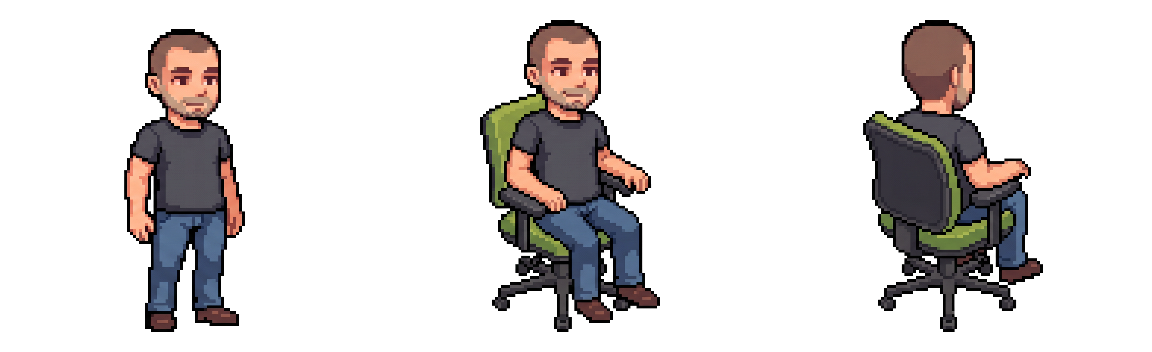
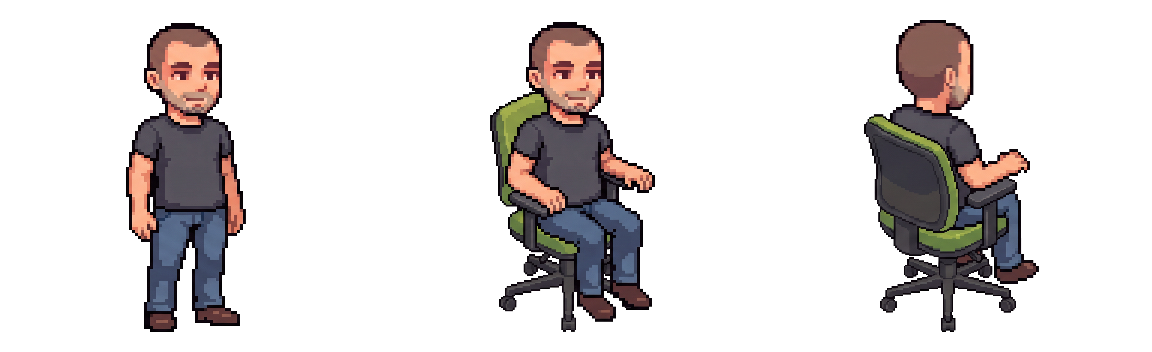
Distribute office routines, rotate BIRD staff and add lecture and exercise poses

diff --git a/public/assets/office-life.js b/public/assets/office-life.js
@@ -3,8 +3,10 @@
 const STEP=20,dist=(a,b)=>Math.hypot(a[0]-b[0],a[1]-b[1]);
 const DENSITY_RADIUS=175,AREA_LIMIT=3,MAX_WALKERS=5;
 function fitsArea(point,others){if(others.filter(p=>dist(p,point)<DENSITY_RADIUS).length>=AREA_LIMIT)return false;return !others.some(center=>dist(point,center)<DENSITY_RADIUS&&others.filter(p=>dist(p,center)<DENSITY_RADIUS).length>=AREA_LIMIT);}
-const activities=['work','walk','chat','coffee','water','food','away'];
+const activities=['work','walk','chat','coffee','water','food','away','lecture','exercise'];
 const phrases={
+ lecture:{en:['Taking notes','A little study time','Reviewing the lecture','One more idea','Working on a plan','Reading my notes','Thinking it through'],hr:['Pišem bilješke','Malo učenja','Ponavljam predavanje','Još jedna ideja','Radim na planu','Čitam bilješke','Razmišljam'],ru:['Делаю заметки','Немного учёбы','Повторю лекцию','Ещё одна идея','Работаю над планом','Читаю конспект','Обдумываю']},
+ exercise:{en:['Stretch break','A few pull-ups','Moving a little','One more rep','Time to stretch','A quick workout','Then back to work'],hr:['Malo istezanja','Nekoliko zgibova','Malo kretanja','Još jedno ponavljanje','Vrijeme za istezanje','Kratki trening','Pa natrag na posao'],ru:['Размяться','Пара подтягиваний','Немного движения','Ещё один подход','Время разминки','Короткая тренировка','И обратно к работе']},
  smoke:{en:['Smoke break','A quick break','Stepping outside','Back in a minute','A little fresh air','Outside for a bit','See you in a minute'],hr:['Pauza za cigaretu','Kratka pauza','Idem van','Vraćam se brzo','Malo svježeg zraka','Nakratko van','Vidimo se uskoro'],ru:['Выйду покурить','Короткая пауза','На балкон','Скоро вернусь','Свежий воздух','Ненадолго на улицу','До скорого']},
  coffee:{en:['Coffee time','I want coffee','One espresso','Coffee break','Refill time','A little caffeine','Back in a minute'],hr:['Vrijeme za kavu','Želim kavu','Jedan espresso','Pauza za kavu','Još jednu','Malo kofeina','Vraćam se brzo'],ru:['Время кофе','Хочу кофе','Один эспрессо','Кофе-пауза','Ещё чашечку','Немного кофеина','Скоро вернусь']},
  water:{en:['Water break','Stay hydrated','Just some water','Refill time','A fresh glass','Cheers','Water first'],hr:['Pauza za vodu','Vrijeme za vodu','Samo voda','Napuniti čašu','Čaša vode','Živjeli','Prvo voda'],ru:['Попить воды','Время воды','Просто воды','Наполнить стакан','Стакан воды','За здоровье','Сначала вода']},
@@ -14,8 +16,10 @@ const phrases={
 function navigation(scene){
  const desks=scene.staticLayers.filter(x=>x.kind==='desk-top').map(x=>x.footprint),walls=scene.staticLayers.filter(x=>x.kind==='wall'&&x.worldSegment).map(x=>x.worldSegment);
  const chairs=scene.staticLayers.filter(x=>x.kind==='chair').map(x=>x.footprint);
- const blocks=[...desks,...chairs,...scene.staticLayers.filter(x=>x.kind==='exercise').map(x=>x.footprint),[905,140,340,53],[823,800,46,45],[814,712,58,63],[815,595,62,65]];
- for(let r=0;r<4;r++)for(let c=0;c<5;c++)blocks.push([335+c*102+18,1380+r*110+40,44,44]);
+ const lectureBlocks=[];for(let r=0;r<4;r++)for(let c=0;c<5;c++)lectureBlocks.push([335+c*102+18,1380+r*110+40,44,44]);
+ const exerciseBlocks=scene.staticLayers.filter(x=>x.kind==='exercise').map(x=>x.footprint);
+ const blocks=[...desks,...chairs,...exerciseBlocks,...lectureBlocks,[905,140,340,53],[823,800,46,45],[814,712,58,63],[815,595,62,65]];
+
  const inside=(x,y)=>scene.rooms.some(r=>x>=r.x+14&&x<=r.x+r.w-14&&y>=r.y+14&&y<=r.y+r.h-14);
  const free=(x,y)=>inside(x,y)&&!blocks.some(([a,b,w,h])=>x>a-10&&x<a+w+10&&y>b-10&&y<b+h+10)&&!walls.some(([a,b,c,d])=>a===c?Math.abs(x-a)<14&&y>Math.min(b,d)-12&&y<Math.max(b,d)+12:Math.abs(y-b)<14&&x>Math.min(a,c)-12&&x<Math.max(a,c)+12);
  // Floor strips share open boundaries; only actual walls block crossings.
@@ -25,7 +29,7 @@ function navigation(scene){
  }
  const within=(p,r)=>p[0]>r[0]-10&&p[0]<r[0]+r[2]+10&&p[1]>r[1]-10&&p[1]<r[1]+r[3]+10;
  const wallHit=p=>walls.some(([a,b,c,d])=>a===c?Math.abs(p[0]-a)<14&&p[1]>Math.min(b,d)-12&&p[1]<Math.max(b,d)+12:Math.abs(p[1]-b)<14&&p[0]>Math.min(a,c)-12&&p[0]<Math.max(a,c)+12);
- const canStep=(from,to,seated=false)=>!(!wallHit(from)&&wallHit(to))&&!blocks.some(r=>within(to,r)&&!within(from,r)&&!(seated&&chairs.includes(r)));
+ const canStep=(from,to,seated=false)=>!(!wallHit(from)&&wallHit(to))&&!blocks.some(r=>within(to,r)&&!within(from,r)&&!(seated&&(chairs.includes(r)||lectureBlocks.includes(r)||exerciseBlocks.includes(r))));
  const nearest=(p,blocked=new Set())=>[...cells.values()].filter(v=>!blocked.has(v.join(','))).reduce((a,b)=>dist(a,p)<dist(b,p)?a:b);
  function route(from,to,seated=false,avoid=[]){
   const key=p=>p.join(','),blocked=new Set();
@@ -34,7 +38,7 @@ function navigation(scene){
   const start=nearest(from,blocked),goal=nearest(to);if(blocked.has(key(goal)))return [];
   const open=[start],came=new Map(),seen=new Set([key(start)]);
   for(let i=0;i<open.length;i++){
-   const p=open[i];if(key(p)===key(goal)){const result=[p];let k=key(p);while(came.has(k)){const prev=came.get(k);result.push(prev);k=key(prev);}return [from,...result.reverse(),...(seated&&dist(goal,to)<55?[to]:[])];}
+   const p=open[i];if(key(p)===key(goal)){const result=[p];let k=key(p);while(came.has(k)){const prev=came.get(k);result.push(prev);k=key(prev);}return [from,...result.reverse(),...(seated&&dist(goal,to)<120?[to]:[])];}
    for(const [dx,dy]of [[STEP,0],[-STEP,0],[0,STEP],[0,-STEP]]){const n=[p[0]+dx,p[1]+dy],k=key(n);if(cells.has(k)&&!seen.has(k)&&!blocked.has(k)){seen.add(k);came.set(k,p);open.push(n);}}
   }return [];
  }
@@ -43,11 +47,22 @@ function navigation(scene){
 function create(scene,roster){
  const smokers=new Set(['person-pavel-isaykov','person-javier-garcia-zaballos']);
  const nav=navigation(scene),actors=new Map(),seats=[[225,263],[375,263],[225,500],[375,500],[997,943],[1143,943],[997,1135],[1143,1135],[998,1488],[1142,1488],[998,1670],[1142,1670],[1010,2050],[1170,2050],[1010,2320],[1170,2320]],windowSeats=[[225,1155],[225,1330]];
+ const lectureIds=['person-karlo-ciciliani','person-antonio-kocijan','person-marko-milardic','person-nada','person-christopher-sawyer-bateman','person-kristina-kratofil','person-quynh-tran','person-lotus-kattini'];
+ const lectureSeats=[[0,0],[0,2],[0,4],[3,0],[3,2],[3,4],[1,1],[1,3]].map(([r,c])=>[375+c*102,1454+r*110]);
+ const exerciseIds=new Set(['person-antun-matijasec','person-filip-glavica']);
+ const workSeats=seats.filter((_,i)=>i<4||i>7),allocated=[];
  let clock=0,serial=0;
- for(const row of roster){const i=serial++,home=row.id==='person-maxim-ilin'?windowSeats[0]:row.id==='person-pavel-isaykov'?windowSeats[1]:row.home;
-  actors.set(row.id,{...row,index:i,home:[...home],pos:[...home],mode:'idle',activity:'work',until:2+(i*7)%17,path:[],round:0,variant:[...row.id].reduce((n,c)=>n+c.charCodeAt(0),0)%7,visited:new Set(),seated:row.id==='person-maxim-ilin'||row.id==='person-pavel-isaykov',hidden:false,carry:null});}
+ for(const row of roster){const i=serial++;let home=row.id==='person-maxim-ilin'?windowSeats[0]:row.id==='person-pavel-isaykov'?windowSeats[1]:row.id.startsWith('staff-')?seats[4+Number(row.id.slice(-1))-1]:lectureIds.includes(row.id)?lectureSeats[lectureIds.indexOf(row.id)]:workSeats.find(p=>!allocated.includes(p))||row.home;
+  allocated.push(home);
+  actors.set(row.id,{...row,index:i,home:[...home],pos:[...home],mode:'idle',activity:'work',until:2+(i*7)%17,path:[],round:0,variant:[...row.id].reduce((n,c)=>n+c.charCodeAt(0),0)%7,visited:new Set(),seated:true,hidden:false,carry:null});}
  const groups=new Map();for(const a of actors.values())if(a.projectId){if(!groups.has(a.projectId))groups.set(a.projectId,[]);groups.get(a.projectId).push(a.id);}
  const rotations=[...groups.values()].filter(ids=>ids.length>2).map(ids=>{const absent=ids[ids.length-1],a=actors.get(absent);a.mode='offsite';a.hidden=true;return{ids,absent,nextAt:100,turn:0,departing:null,retryAt:0};});
+ // Start with varied, useful occupations already spread across the floor.
+ const gymActor=actors.get('person-antun-matijasec');if(gymActor){gymActor.pos=[260,2240];gymActor.activity='exercise';gymActor.seated=false;gymActor.arrived=0;gymActor.until=22;gymActor.visited.add('exercise');}
+ const outsideActor=actors.get('person-javier-garcia-zaballos');if(outsideActor){outsideActor.pos=[840,2520];outsideActor.activity='smoke';outsideActor.seated=false;outsideActor.arrived=0;outsideActor.until=24;outsideActor.visited.add('smoke');outsideActor.visited.add('away');}
+ const staffIds=[...actors.keys()].filter(id=>id.startsWith('staff-'));
+ const staffShift={active:staffIds[0],index:0,nextAt:60,departing:false};
+ for(const id of staffIds.slice(1)){actors.get(id).hidden=true;actors.get(id).mode='offsite';}
  const visible=except=>[...actors.values()].filter(b=>b!==except&&!b.hidden);
  const walkers=()=>[...actors.values()].filter(b=>b.mode==='walking').length;
  const choices={walk:[[620,920],[470,1190],[650,680],[700,340],[650,2140],[730,2320],[1080,2120]],coffee:[[780,740]],water:[[790,850]],food:[[1020,58]],away:[[1220,500]]};
@@ -55,13 +70,18 @@ function create(scene,roster){
  function go(a,type,target){
   if(a.mode!=='walking'&&walkers()>=MAX_WALKERS)return false;
   const others=visible(a);if(!fitsArea(target,others.map(b=>b.mode==='walking'?b.goal:b.pos)))return false;
-  const path=nav.route(a.pos,target,type==='work'||type==='food',others.map(b=>b.pos));if(path.length<2)return false;
-  if(type==='work'||type==='food'||type==='smoke')a.carry=null;if(type==='return')a.rotationOut=false;
+  const path=nav.route(a.pos,target,['work','food','return','lecture','exercise','staff-in'].includes(type),others.map(b=>b.pos));if(path.length<2)return false;
+  if(['work','food','return','lecture','exercise','staff-in'].includes(type)||type==='smoke')a.carry=null;if(type==='return')a.rotationOut=false;
   a.activity=type;a.visited.add(type==='smoke'?'away':type);if(type==='smoke')a.visited.add('smoke');a.goal=[...target];a.path=path.slice(1);a.mode='walking';a.seated=false;a.hidden=false;a.variant=(a.variant+1)%7;a.started=clock;return true;
  }
  function plan(a){
   if(walkers()>=MAX_WALKERS-1){a.until=clock+7+a.index%5;return;}
-  const kind=activities[(a.index+a.round++)%7];
+  if(a.id.startsWith('staff-')){a.until=clock+60;return;}
+  const schedule=exerciseIds.has(a.id)?['work','exercise','coffee','work','water','walk','food','chat','away']:lectureIds.includes(a.id)?['work','coffee','lecture','water','work','chat','food','away']:['work','coffee','water','work','chat','food','walk','away'];
+  const next=schedule[(a.index+a.round++)%schedule.length],kind=smokers.has(a.id)&&!a.visited.has('smoke')?'away':exerciseIds.has(a.id)&&!a.visited.has('exercise')?'exercise':next;
+  if(kind==='exercise'&&!atStation('exercise',a)&&go(a,'exercise',[260,2240]))return;
+  if(kind==='lecture'&&lectureIds.includes(a.id)){const p=lectureSeats[lectureIds.indexOf(a.id)];if(go(a,'lecture',p))return;}
+
   if(kind==='chat'&&!atStation('chat',a)){
    const partner=visible(a).filter(b=>b.mode==='idle'&&b.activity==='work'&&!b.pinned).sort((b,c)=>dist(a.pos,b.pos)-dist(a.pos,c.pos))[0];
    const hubs=[[620,920],[470,1190],[600,1310],[770,1650],[650,680],[700,340],[700,550]].sort((b,c)=>dist(a.pos,b)-dist(a.pos,c));
@@ -71,9 +91,8 @@ function create(scene,roster){
    }
   }
   if(kind==='work'){
-   const candidates=a.id==='person-maxim-ilin'?[windowSeats[0]]:a.id==='person-pavel-isaykov'?[windowSeats[1]]:a.id.startsWith('staff-')?seats.slice(4,8):seats.filter((_,i)=>i<4||i>7);
-   const preferred=[...candidates].sort((b,c)=>dist(a.home,b)-dist(a.home,c)).find(p=>!visible(a).some(b=>dist(b.pos,p)<50||b.goal&&b.mode==='walking'&&dist(b.goal,p)<50));
-   a.targetSeat=preferred||a.home;if(dist(a.pos,a.targetSeat)<10){a.seated=scene.staticLayers.some(c=>c.kind==='chair'&&c.anchor&&dist(a.pos,c.anchor)<12);a.until=clock+22+a.index%15;return;}if(go(a,'work',a.targetSeat))return;
+   const preferred=a.home;
+   a.targetSeat=preferred||a.home;if(dist(a.pos,a.targetSeat)<10){a.seated=scene.staticLayers.some(c=>['chair','lecture'].includes(c.kind)&&c.anchor&&dist(a.pos,c.anchor)<12);a.until=clock+22+a.index%15;return;}if(go(a,'work',a.targetSeat))return;
   }else if(kind==='away'&&smokers.has(a.id)){const spot=a.id==='person-pavel-isaykov'?[440,2520]:[840,2520];if(go(a,'smoke',spot))return;
   }else if(choices[kind]&&!atStation(kind,a)){
    const targets=[...choices[kind]].sort((b,c)=>dist(a.home,b)-dist(a.home,c));for(const target of targets)if(go(a,kind,target))return;
@@ -82,6 +101,14 @@ function create(scene,roster){
   a.until=clock+12+a.index%7;
  }
  function step(dt){clock+=dt;
+  const staff=actors.get(staffShift.active);
+  if(staff&&staffShift.departing&&staff.mode==='offsite'){
+   const next=actors.get(staffIds[(staffShift.index+1)%staffIds.length]);
+   if(fitsArea([1220,500],visible(next).map(b=>b.pos))&&!visible(next).some(b=>dist(b.pos,[1220,500])<60)){
+    next.pos=[1220,500];if(go(next,'staff-in',next.home)){staffShift.index=(staffShift.index+1)%staffIds.length;staffShift.active=next.id;staffShift.departing=false;staffShift.nextAt=Infinity;}
+   }
+  }else if(staff&&!staffShift.departing&&clock>=staffShift.nextAt&&!staff.pinned&&go(staff,'staff-out',[1220,500])){staff.rotationOut=true;staffShift.departing=true;}
+
   for(const group of rotations){
    if(clock<group.retryAt)continue;
    if(group.departing){const out=actors.get(group.departing),incoming=actors.get(group.absent);
@@ -95,13 +122,13 @@ function create(scene,roster){
    if(a.mode==='walking'){
     let left=dt*(32+(a.index%4)*3);
     while(left>0&&a.path.length){const target=a.path[0],distance=dist(a.pos,target);if(distance<.1){a.path.shift();continue;}const travel=Math.min(left,distance),next=[a.pos[0]+(target[0]-a.pos[0])*travel/distance,a.pos[1]+(target[1]-a.pos[1])*travel/distance],others=visible(a);
-     const blocked=!nav.canStep(a.pos,next,(a.activity==='work'||a.activity==='food')&&a.path.length===1)||!fitsArea(next,others.map(b=>b.pos))||others.some(b=>dist(next,b.pos)<45&&dist(next,b.pos)<dist(a.pos,b.pos));
-     if(blocked){a.blocked=(a.blocked||0)+dt;if(a.blocked>2&&clock>(a.replanAt||0)){a.replanAt=clock+4;const detour=nav.route(a.pos,a.goal,a.activity==='work'||a.activity==='food',others.map(b=>b.pos));if(detour.length>1){a.path=detour.slice(1);a.blocked=0;}else if(a.blocked>12&&!['away','return','rotate-out'].includes(a.activity)){if(!go(a,'return',a.home)){a.mode='idle';a.activity='walk';a.until=clock+5;} }}break;}
+     const blocked=!nav.canStep(a.pos,next,(['work','food','return','lecture','exercise','staff-in'].includes(a.activity))&&a.path.length===1)||!fitsArea(next,others.map(b=>b.pos))||others.some(b=>dist(next,b.pos)<45&&dist(next,b.pos)<dist(a.pos,b.pos));
+     if(blocked){a.blocked=(a.blocked||0)+dt;if(a.blocked>2&&clock>(a.replanAt||0)){a.replanAt=clock+4;const detour=nav.route(a.pos,a.goal,['work','food','return','lecture','exercise','staff-in'].includes(a.activity),others.map(b=>b.pos));if(detour.length>1){a.path=detour.slice(1);a.blocked=0;}else if(a.blocked>12&&!['away','return','rotate-out'].includes(a.activity)){if(!go(a,'return',a.home)){a.mode='idle';a.activity='walk';a.until=clock+5;} }}break;}
      a.blocked=0;a.facingLeft=(next[0]-a.pos[0])-(next[1]-a.pos[1])<0;a.pos=next;left-=travel;if(travel===distance)a.path.shift();
     }
-    if(!a.path.length){const returning=a.activity==='return';if(returning)a.activity='work';a.mode='idle';a.arrived=clock;a.until=clock+(a.activity==='work'?24:a.activity==='chat'?16:a.activity==='smoke'?20:6)+(a.index%15);a.seated=['food','work'].includes(a.activity)&&scene.staticLayers.some(chair=>chair.kind==='chair'&&chair.anchor&&dist(a.pos,chair.anchor)<12);
+    if(!a.path.length){const returning=a.activity==='return'||a.activity==='staff-in';if(a.activity==='staff-in')staffShift.nextAt=clock+60;if(returning)a.activity='work';a.mode='idle';a.arrived=clock;a.until=clock+(a.activity==='work'?26:a.activity==='lecture'?30:a.activity==='exercise'?18:a.activity==='chat'?16:a.activity==='smoke'?20:6)+(a.index%15);a.seated=['food','work','lecture'].includes(a.activity)&&scene.staticLayers.some(chair=>['chair','lecture'].includes(chair.kind)&&chair.anchor&&dist(a.pos,chair.anchor)<12);
      if(a.activity==='coffee'||a.activity==='water'){a.carry=a.activity;a.carryUntil=clock+35;}
-     if(['away','rotate-out'].includes(a.activity)){a.mode='departing';a.hidden=false;a.until=clock+1;}
+     if(['away','rotate-out','staff-out'].includes(a.activity)){a.mode='departing';a.hidden=false;a.until=clock+1;}
      if(a.activity==='chat')a.celebrate=a.variant===0;
     }
    }else if(a.activity==='chat'&&a.partner&&actors.get(a.partner)?.mode==='walking'&&clock<a.started+70){a.until=clock+12;}
@@ -109,7 +136,7 @@ function create(scene,roster){
   }
  }
  function words(a,lang){if(a.hidden)return '';const partner=actors.get(a.partner);if(a.activity==='chat'&&a.mode==='idle'&&partner?.mode==='idle'&&partner.activity==='chat'&&dist(a.pos,partner.pos)<100)return Math.floor(clock/2+(a.id<a.partner?0:1))%2?'…':'';const list=phrases[a.activity==='rotate-out'?'away':a.activity]?.[lang]||phrases[a.activity]?.en;return list&&clock-(a.mode==='walking'?a.started:a.arrived)<3.8?list[a.variant]:'';}
- return{actors,nav,step,words,get time(){return clock},activities,plan,rotations,limits:{radius:DENSITY_RADIUS,area:AREA_LIMIT,walkers:MAX_WALKERS},fitsArea};
+ return{actors,nav,step,words,get time(){return clock},activities,plan,rotations,staffShift,limits:{radius:DENSITY_RADIUS,area:AREA_LIMIT,walkers:MAX_WALKERS},fitsArea};
 }
 window.BirdOfficeLife={create,navigation,activities};
 })();

diff --git a/public/assets/office-seated-data.js b/public/assets/office-seated-data.js
@@ -1,1 +1,2 @@
-window.BIRD_OFFICE_SEATED={"person-antun-matijasec":{"asset":"assets/person-antun-matijasec-seated-chair.webp","width":1152,"height":352,"frames":[[0,0,384,352],[384,0,384,352],[768,0,384,352]],"frontFacing":"se","rearFacing":"ne","renderHeight":120},"person-tea-madzarac":{"asset":"assets/person-tea-madzarac-seated-chair.webp","width":1152,"height":352,"frames":[[0,0,384,352],[384,0,384,352],[768,0,384,352]],"frontFacing":"se","rearFacing":"ne","renderHeight":120},"person-matej-rene-cihlar":{"asset":"assets/person-matej-rene-cihlar-seated-chair.webp","width":1152,"height":352,"frames":[[0,0,384,352],[384,0,384,352],[768,0,384,352]],"frontFacing":"se","rearFacing":"nw","renderHeight":120},"person-vedran-odeljan":{"asset":"assets/person-vedran-odeljan-seated-chair.webp","width":1152,"height":352,"frames":[[0,0,384,352],[384,0,384,352],[768,0,384,352]],"frontFacing":"se","rearFacing":"ne","renderHeight":120},"person-quynh-tran":{"asset":"assets/person-quynh-tran-seated-chair.webp","width":1152,"height":352,"frames":[[0,0,384,352],[384,0,384,352],[768,0,384,352]],"frontFacing":"se","rearFacing":"nw","renderHeight":120},"person-lotus-kattini":{"asset":"assets/person-lotus-kattini-seated-chair.webp","width":1152,"height":352,"frames":[[0,0,384,352],[384,0,384,352],[768,0,384,352]],"frontFacing":"se","rearFacing":"ne","renderHeight":120},"person-kristina-kratofil":{"asset":"assets/person-kristina-kratofil-seated-chair.webp","width":1152,"height":352,"frames":[[0,0,384,352],[384,0,384,352],[768,0,384,352]],"frontFacing":"se","rearFacing":"nw","renderHeight":120},"person-filip-glavica":{"asset":"assets/person-filip-glavica-seated-chair.webp","width":1152,"height":352,"frames":[[0,0,384,352],[384,0,384,352],[768,0,384,352]],"frontFacing":"se","rearFacing":"nw","renderHeight":120},"person-dominik-mandic":{"asset":"assets/person-dominik-mandic-seated-chair.webp","width":1152,"height":352,"frames":[[0,0,384,352],[384,0,384,352],[768,0,384,352]],"frontFacing":"se","rearFacing":"nw","renderHeight":120},"person-antonio-parunov":{"asset":"assets/person-antonio-parunov-seated-chair.webp","width":1152,"height":352,"frames":[[0,0,384,352],[384,0,384,352],[768,0,384,352]],"frontFacing":"se","rearFacing":"nw","renderHeight":120},"person-tomislav-toplak":{"asset":"assets/person-tomislav-toplak-seated-chair.webp","width":1152,"height":352,"frames":[[0,0,384,352],[384,0,384,352],[768,0,384,352]],"frontFacing":"se","rearFacing":"nw","renderHeight":120},"person-marko-milardic":{"asset":"assets/person-marko-milardic-seated-chair.webp","width":1152,"height":352,"frames":[[0,0,384,352],[384,0,384,352],[768,0,384,352]],"frontFacing":"se","rearFacing":"ne","renderHeight":120},"person-pavel-isaykov":{"asset":"assets/person-pavel-isaykov-seated-chair.webp","width":1152,"height":352,"frames":[[0,0,384,352],[384,0,384,352],[768,0,384,352]],"frontFacing":"se","rearFacing":"ne","renderHeight":120},"person-maxim-ilin":{"asset":"assets/person-maxim-ilin-seated-chair.webp","width":1152,"height":352,"frames":[[0,0,384,352],[384,0,384,352],[768,0,384,352]],"frontFacing":"se","rearFacing":"nw","renderHeight":120},"person-marko-pavic":{"asset":"assets/person-marko-pavic-seated-chair.webp","width":1152,"height":352,"frames":[[0,0,384,352],[384,0,384,352],[768,0,384,352]],"frontFacing":"se","rearFacing":"ne","renderHeight":120},"person-filip-ljubotina":{"asset":"assets/person-filip-ljubotina-seated-chair.webp","width":1152,"height":352,"frames":[[0,0,384,352],[384,0,384,352],[768,0,384,352]],"frontFacing":"se","rearFacing":"ne","renderHeight":120},"person-karlo-ciciliani":{"asset":"assets/person-karlo-ciciliani-seated-chair.webp","width":1152,"height":352,"frames":[[0,0,384,352],[384,0,384,352],[768,0,384,352]],"frontFacing":"se","rearFacing":"nw","renderHeight":120},"person-antonio-kocijan":{"asset":"assets/person-antonio-kocijan-seated-chair.webp","width":1152,"height":352,"frames":[[0,0,384,352],[384,0,384,352],[768,0,384,352]],"frontFacing":"se","rearFacing":"nw","renderHeight":120},"person-nada":{"asset":"assets/person-nada-seated-chair.webp","width":1152,"height":352,"frames":[[0,0,384,352],[384,0,384,352],[768,0,384,352]],"frontFacing":"se","rearFacing":"nw","renderHeight":120},"person-christopher-sawyer-bateman":{"asset":"assets/person-christopher-sawyer-bateman-seated-chair.webp","width":1152,"height":352,"frames":[[0,0,384,352],[384,0,384,352],[768,0,384,352]],"frontFacing":"se","rearFacing":"ne","renderHeight":120},"staff-bird-1":{"asset":"assets/staff-bird-1-seated-chair.webp","width":1152,"height":352,"frames":[[0,0,384,352],[384,0,384,352],[768,0,384,352]],"frontFacing":"se","rearFacing":"ne","renderHeight":120},"staff-bird-2":{"asset":"assets/staff-bird-2-seated-chair.webp","width":1152,"height":352,"frames":[[0,0,384,352],[384,0,384,352],[768,0,384,352]],"frontFacing":"se","rearFacing":"ne","renderHeight":120},"staff-bird-3":{"asset":"assets/staff-bird-3-seated-chair.webp","width":1152,"height":352,"frames":[[0,0,384,352],[384,0,384,352],[768,0,384,352]],"frontFacing":"se","rearFacing":"ne","renderHeight":120},"person-javier-garcia-zaballos":{"asset":"assets/person-javier-garcia-zaballos-seated-chair.webp","width":1152,"height":352,"frames":[[0,0,384,352],[384,0,384,352],[768,0,384,352]],"frontFacing":"se","rearFacing":"nw","renderHeight":120}};
+window.BIRD_OFFICE_SEATED={"person-antun-matijasec":{"asset":"assets/person-antun-matijasec-seated-chair.webp","width":1152,"height":352,"frames":[[0,0,384,352],[384,0,384,352],[768,0,384,352]],"frontFacing":"se","rearFacing":"ne","renderHeight":120},"person-tea-madzarac":{"asset":"assets/person-tea-madzarac-seated-chair.webp","width":1152,"height":352,"frames":[[0,0,384,352],[384,0,384,352],[768,0,384,352]],"frontFacing":"se","rearFacing":"ne","renderHeight":120},"person-matej-rene-cihlar":{"asset":"assets/person-matej-rene-cihlar-seated-chair.webp","width":1152,"height":352,"frames":[[0,0,384,352],[384,0,384,352],[768,0,384,352]],"frontFacing":"se","rearFacing":"nw","renderHeight":120},"person-vedran-odeljan":{"asset":"assets/person-vedran-odeljan-seated-chair.webp","width":1152,"height":352,"frames":[[0,0,384,352],[384,0,384,352],[768,0,384,352]],"frontFacing":"se","rearFacing":"ne","renderHeight":120},"person-quynh-tran":{"asset":"assets/person-quynh-tran-seated-chair.webp","width":1152,"height":352,"frames":[[0,0,384,352],[384,0,384,352],[768,0,384,352]],"frontFacing":"se","rearFacing":"nw","renderHeight":120},"person-lotus-kattini":{"asset":"assets/person-lotus-kattini-seated-chair.webp","width":1152,"height":352,"frames":[[0,0,384,352],[384,0,384,352],[768,0,384,352]],"frontFacing":"se","rearFacing":"ne","renderHeight":120},"person-kristina-kratofil":{"asset":"assets/person-kristina-kratofil-seated-chair.webp","width":1152,"height":352,"frames":[[0,0,384,352],[384,0,384,352],[768,0,384,352]],"frontFacing":"se","rearFacing":"nw","renderHeight":120},"person-filip-glavica":{"asset":"assets/person-filip-glavica-seated-chair.webp","width":1152,"height":352,"frames":[[0,0,384,352],[384,0,384,352],[768,0,384,352]],"frontFacing":"se","rearFacing":"nw","renderHeight":120},"person-dominik-mandic":{"asset":"assets/person-dominik-mandic-seated-chair.webp","width":1152,"height":352,"frames":[[0,0,384,352],[384,0,384,352],[768,0,384,352]],"frontFacing":"se","rearFacing":"nw","renderHeight":120},"person-antonio-parunov":{"asset":"assets/person-antonio-parunov-seated-chair.webp","width":1152,"height":352,"frames":[[0,0,384,352],[384,0,384,352],[768,0,384,352]],"frontFacing":"se","rearFacing":"nw","renderHeight":120},"person-tomislav-toplak":{"asset":"assets/person-tomislav-toplak-seated-chair.webp","width":1152,"height":352,"frames":[[0,0,384,352],[384,0,384,352],[768,0,384,352]],"frontFacing":"se","rearFacing":"nw","renderHeight":120},"person-marko-milardic":{"asset":"assets/person-marko-milardic-seated-chair.webp","width":1152,"height":352,"frames":[[0,0,384,352],[384,0,384,352],[768,0,384,352]],"frontFacing":"se","rearFacing":"ne","renderHeight":120},"person-pavel-isaykov":{"asset":"assets/person-pavel-isaykov-seated-chair.webp","width":1152,"height":352,"frames":[[0,0,384,352],[384,0,384,352],[768,0,384,352]],"frontFacing":"se","rearFacing":"ne","renderHeight":120},"person-maxim-ilin":{"asset":"assets/person-maxim-ilin-seated-chair.webp","width":1152,"height":352,"frames":[[0,0,384,352],[384,0,384,352],[768,0,384,352]],"frontFacing":"se","rearFacing":"nw","renderHeight":120},"person-marko-pavic":{"asset":"assets/person-marko-pavic-seated-chair.webp","width":1152,"height":352,"frames":[[0,0,384,352],[384,0,384,352],[768,0,384,352]],"frontFacing":"se","rearFacing":"ne","renderHeight":120},"person-filip-ljubotina":{"asset":"assets/person-filip-ljubotina-seated-chair.webp","width":1152,"height":352,"frames":[[0,0,384,352],[384,0,384,352],[768,0,384,352]],"frontFacing":"se","rearFacing":"ne","renderHeight":120},"person-karlo-ciciliani":{"asset":"assets/person-karlo-ciciliani-seated-chair.webp","width":1152,"height":352,"frames":[[0,0,384,352],[384,0,384,352],[768,0,384,352]],"frontFacing":"se","rearFacing":"nw","renderHeight":120},"person-antonio-kocijan":{"asset":"assets/person-antonio-kocijan-seated-chair.webp","width":1152,"height":352,"frames":[[0,0,384,352],[384,0,384,352],[768,0,384,352]],"frontFacing":"se","rearFacing":"nw","renderHeight":120},"person-nada":{"asset":"assets/person-nada-seated-chair.webp","width":1152,"height":352,"frames":[[0,0,384,352],[384,0,384,352],[768,0,384,352]],"frontFacing":"se","rearFacing":"nw","renderHeight":120},"person-christopher-sawyer-bateman":{"asset":"assets/person-christopher-sawyer-bateman-seated-chair.webp","width":1152,"height":352,"frames":[[0,0,384,352],[384,0,384,352],[768,0,384,352]],"frontFacing":"se","rearFacing":"ne","renderHeight":120},"staff-bird-1":{"asset":"assets/staff-bird-1-seated-chair.webp","width":1152,"height":352,"frames":[[0,0,384,352],[384,0,384,352],[768,0,384,352]],"frontFacing":"se","rearFacing":"ne","renderHeight":120},"staff-bird-2":{"asset":"assets/staff-bird-2-seated-chair.webp","width":1152,"height":352,"frames":[[0,0,384,352],[384,0,384,352],[768,0,384,352]],"frontFacing":"se","rearFacing":"nw","renderHeight":120},"staff-bird-3":{"asset":"assets/staff-bird-3-seated-chair.webp","width":1152,"height":352,"frames":[[0,0,384,352],[384,0,384,352],[768,0,384,352]],"frontFacing":"se","rearFacing":"ne","renderHeight":120},"person-javier-garcia-zaballos":{"asset":"assets/person-javier-garcia-zaballos-seated-chair.webp","width":1152,"height":352,"frames":[[0,0,384,352],[384,0,384,352],[768,0,384,352]],"frontFacing":"se","rearFacing":"nw","renderHeight":120}};
+window.BIRD_OFFICE_ROUTINES={"person-karlo-ciciliani":{"lecture":{"asset":"assets/person-karlo-ciciliani-lecture.webp","renderHeight":120}},"person-antonio-kocijan":{"lecture":{"asset":"assets/person-antonio-kocijan-lecture.webp","renderHeight":120}},"person-marko-milardic":{"lecture":{"asset":"assets/person-marko-milardic-lecture.webp","renderHeight":120}},"person-nada":{"lecture":{"asset":"assets/person-nada-lecture.webp","renderHeight":120}},"person-christopher-sawyer-bateman":{"lecture":{"asset":"assets/person-christopher-sawyer-bateman-lecture.webp","renderHeight":120}},"person-kristina-kratofil":{"lecture":{"asset":"assets/person-kristina-kratofil-lecture.webp","renderHeight":120}},"person-quynh-tran":{"lecture":{"asset":"assets/person-quynh-tran-lecture.webp","renderHeight":120}},"person-lotus-kattini":{"lecture":{"asset":"assets/person-lotus-kattini-lecture.webp","renderHeight":120}},"person-antun-matijasec":{"exercise":{"asset":"assets/person-antun-matijasec-exercise.webp","renderHeight":184}},"person-filip-glavica":{"exercise":{"asset":"assets/person-filip-glavica-exercise.webp","renderHeight":184}}};

diff --git a/public/assets/office.js b/public/assets/office.js
@@ -120,12 +120,16 @@ function form(){return `<section class="office-form-section" id="office-new-proj
 function rememberDraft(){const f=root.querySelector('#office-project-form');if(!f)return;draft={name:f.elements.name.value,description:f.elements.description.value,stage:f.elements.stage.value,members:[...f.querySelectorAll('[data-member-name]')].map((e,i)=>({name:e.value,role:f.querySelector(`[data-member-role="${i}"]`).value,avatar:f.querySelector(`[data-member-avatar="${i}"]`).value}))};}
 function render(){if(!root)return;const oldQueryFocus=document.activeElement?.id==='office-search';const oldQueryCursor=root.querySelector('#office-search')?.selectionStart;root.innerHTML=`<div class="incubator"><a class="office-skip" href="#office-map">${text('skip')}</a>${embedded?'':`<header class="office-header"><div class="office-brand">BIRD</div><div class="office-langs" role="group" aria-label="Language">${['en','hr','ru'].map((lang,i)=>`<button data-language="${lang}" aria-label="${['English','Hrvatski','Русский'][i]}" aria-pressed="${language===lang}">${lang.toUpperCase()}</button>`).join('')}</div></header>`}<div class="office-intro">${embedded&&typeof teamsViewNav==='function'?teamsViewNav('office'):''}<h1>${text('brand')}</h1><button class="office-primary" data-action="add">+ ${text('add')}</button></div><div class="office-grid"><div><div class="office-board ${controlsOpen?'is-expanded':''}"><div class="office-toolbar"><div class="office-search"><label for="office-search">${text('find')}</label><input id="office-search" type="search" placeholder="${text('placeholder')}" value="${escape(query)}"></div>${teamGroups()}<div class="camera-tools"><button data-action="motion" aria-pressed="${motionEnabled}">${text(motionEnabled?'pause':'resume')}</button><button data-action="zoom-out" aria-label="${text('zoomOut')}">−</button><button data-action="zoom-in" aria-label="${text('zoomIn')}">+</button><button data-action="fit">${text('fit')}</button></div></div>${navigator()}<div class="office-viewport-wrap"><div class="office-canvas" id="office-map">${scene()}</div>${miniMap()}</div><div class="office-board-footer"><span>${text('hint')}</span><span>${text('teams')}: ${store.state.projects.length} · ${text('people')}: ${store.state.projects.reduce((n,p)=>n+p.members.length,0)}</span></div></div></div><aside class="office-side ${selection?'has-selection':''}" id="office-card" aria-live="polite">${sideCard()}</aside></div><p class="office-live" role="status">${message?text(message):''}</p>${formOpen?form():''}</div>`;document.documentElement.lang=language;if(!embedded)document.title=text('brand')+' · BIRD';bind();if(!camera||camera.layoutId!==layout.id)homeView();else applyCamera();if(oldQueryFocus){const input=root.querySelector('#office-search');input.focus({preventScroll:true});input.setSelectionRange(oldQueryCursor,oldQueryCursor);}watchSize();startOfficeLife();}
 function occupiedSeat(a){
- if(!a.seated||!window.BIRD_OFFICE_SEATED?.[a.id])return null;
+ const routine=window.BIRD_OFFICE_ROUTINES?.[a.id];
+ if(a.activity==='exercise'&&a.mode==='idle'&&routine?.exercise){const chair=BirdOfficeScene.staticLayers.find(x=>x.kind==='exercise');return{chair,asset:routine.exercise,facing:'se',frame:life.time-a.arrived<5?1:Math.floor((life.time-a.arrived)/2)%2+1,flip:false,kind:'exercise'};}
+ if(!a.seated)return null;
+ if(routine?.lecture){const chair=BirdOfficeScene.staticLayers.find(x=>x.kind==='lecture'&&x.anchor&&Math.hypot(a.pos[0]-x.anchor[0],a.pos[1]-x.anchor[1])<18);if(chair)return{chair,asset:routine.lecture,facing:'sw',frame:(chair.row+chair.column)%2?1:2,flip:a.id!=='person-quynh-tran',kind:'lecture'};}
+ if(!window.BIRD_OFFICE_SEATED?.[a.id])return null;
  const chairs=BirdOfficeScene.staticLayers.filter(x=>x.kind==='chair'&&x.anchor),chair=chairs.find(c=>Math.hypot(a.pos[0]-c.anchor[0],a.pos[1]-c.anchor[1])<18);if(!chair)return null;
  const desks=BirdOfficeScene.staticLayers.filter(x=>x.kind==='desk-top').map(x=>{const[dx,dy,w,h]=x.footprint;return[Math.max(dx,Math.min(dx+w,a.pos[0])),Math.max(dy,Math.min(dy+h,a.pos[1]))];});
  desks.sort((b,c)=>Math.hypot(b[0]-a.pos[0],b[1]-a.pos[1])-Math.hypot(c[0]-a.pos[0],c[1]-a.pos[1]));if(!desks.length)return null;
  const dx=desks[0][0]-a.pos[0],dy=desks[0][1]-a.pos[1],facing=Math.abs(dx)>Math.abs(dy)?dx>0?'se':'nw':dy<0?'ne':'sw',asset=BIRD_OFFICE_SEATED[a.id],front=facing==='se'||facing==='sw';
- return{chair,asset,facing,frame:front?1:2,flip:front?facing!==asset.frontFacing:facing!==asset.rearFacing};
+ return{chair,asset,facing,frame:front?1:2,flip:front?facing!==asset.frontFacing:facing!==asset.rearFacing,kind:'chair'};
 }
 
 function startOfficeLife(){
@@ -140,6 +144,8 @@ function startOfficeLife(){
   const views=[['base',n.body.querySelector('.frame-0')?.outerHTML||n.base]];
   if(activity)for(let i=0;i<3;i++)views.push([String(i),`<svg class="pixel-frame life-pose" x="-69.82" y="-132" width="139.64" height="128" viewBox="${i*384} 0 384 352"><image href="${activity.asset}" width="1152" height="352"/></svg>`]);
   if(chair)for(const i of [1,2]){const h=chair.renderHeight,w=h*384/352;views.push(['chair-'+i,`<svg class="pixel-frame life-pose life-chair-pose" x="${-w/2}" y="${-h*332/352}" width="${w}" height="${h}" viewBox="${i*384} 0 384 352"><image href="${chair.asset}" width="1152" height="352"/></svg>`]);}
+  const routine=window.BIRD_OFFICE_ROUTINES?.[n.id];
+  for(const kind of ['lecture','exercise']){const asset=routine?.[kind];if(!asset)continue;for(const i of [1,2]){const h=asset.renderHeight,w=h*384/352;views.push([kind+'-'+i,`<svg class="pixel-frame life-pose life-${kind}-pose" x="${-w/2}" y="${-h*332/352}" width="${w}" height="${h}" viewBox="${i*384} 0 384 352"><image href="${asset.asset}" width="1152" height="352"/></svg>`]);}}
   n.body.innerHTML='<g class="life-facing">'+views.map(([key,html])=>`<g data-life-pose="${key}" style="visibility:${key==='base'?'visible':'hidden'}">${html}</g>`).join('')+'</g>';
   n.poses=[...n.body.querySelectorAll('[data-life-pose]')];n.lastPose='base';
  }
@@ -148,14 +154,14 @@ function startOfficeLife(){
   if(motionEnabled&&!document.hidden)life.step(dt);
   if(now-paint>32){paint=now;const actorPositions=[],occupiedChairs=new Set();
    for(const n of nodes){const a=life.actors.get(n.id);if(!a)continue;
-    a.pinned=!a.hidden&&(n.el.matches(':hover,:focus'));
+    a.pinned=!a.hidden&&(n.el.matches(':hover'));
     const[x,y]=BirdOfficeScene.project(...a.pos);n.outer.setAttribute('transform',`translate(${x} ${y}) scale(${BirdOfficeScene.visualMetrics.personScale})`);
     n.layer.dataset.depth=a.pos[0]+a.pos[1]+5;n.layer.style.display=a.hidden?'none':'';n.layer.style.opacity=a.mode==='departing'?Math.max(0,1-(life.time-a.arrived)):1;n.el.dataset.activity=a.activity;n.el.dataset.state=a.mode;n.el.dataset.seated=String(a.seated);
-    const seat=occupiedSeat(a);if(seat)occupiedChairs.add(seat.chair.id);n.el.dataset.seatFacing=seat?.facing||'';n.el.dataset.occupiedChair=seat?.chair.id||'';
+    const seat=occupiedSeat(a);if(seat&&!a.hidden)occupiedChairs.add(seat.chair.id);n.el.dataset.seatFacing=seat?.facing||'';n.el.dataset.occupiedChair=seat?.chair.id||'';
     n.el.classList.toggle('is-walking',a.mode==='walking'&&motionEnabled);n.el.classList.toggle('is-seated',a.seated);n.el.classList.toggle('is-facing-left',seat?seat.flip:a.seated?['person-maxim-ilin','person-pavel-isaykov'].includes(a.id):a.facingLeft===true);
     if(n.label){n.label.setAttribute('x',x);n.label.setAttribute('y',y+15);n.label.style.display=a.hidden?'none':'';}
     const asset=window.BIRD_OFFICE_ACTIVITIES?.[a.id];
-    const poseKey=seat?'chair-'+seat.frame:asset?String(a.seated?0:a.carry?2:a.mode==='walking'?1:'base'):'base';
+    const poseKey=seat?seat.kind+'-'+seat.frame:asset?String(a.seated?0:a.carry?2:a.mode==='walking'?1:'base'):'base';
     if(poseKey!==n.lastPose){n.lastPose=poseKey;for(const view of n.poses)view.style.visibility=view.dataset.lifePose===poseKey?'visible':'hidden';n.el.querySelector('.person-ring')?.setAttribute('cy',seat?'0':'-10');}
     let bubble=motionEnabled?life.words(a,language):'';
     const steam=a.carry==='coffee'&&!a.hidden,water=a.carry==='water'&&!a.hidden,walking=a.mode==='walking',working=a.seated;
@@ -167,7 +173,7 @@ function startOfficeLife(){
     if(a.celebrate&&a.activity==='chat'&&life.time-a.arrived<3&&window.BirdOfficeFX){let fx=n.overlay.querySelector('.life-pixelfx');if(!fx){fx=document.createElementNS(ns,'image');fx.setAttribute('class','life-pixelfx');fx.setAttribute('x','-80');fx.setAttribute('y','-180');fx.setAttribute('width','160');fx.setAttribute('height','112');n.overlay.append(fx);}fx.setAttribute('href',BirdOfficeFX.confetti(life.time-a.arrived,a.index));}else n.overlay.querySelector('.life-pixelfx')?.remove();
     if(!a.hidden)actorPositions.push({x,y,depth:Number(n.layer.dataset.depth)});
    }
-   for(const chair of BirdOfficeScene.staticLayers.filter(x=>x.kind==='chair')){const layer=svg.querySelector(`[data-layer-id="${chair.id}"]`);if(layer)layer.style.visibility=occupiedChairs.has(chair.id)?'hidden':'';}
+   for(const chair of BirdOfficeScene.staticLayers.filter(x=>['chair','lecture','exercise'].includes(x.kind))){const layer=svg.querySelector(`[data-layer-id="${chair.id}"]`);if(layer)layer.style.visibility=occupiedChairs.has(chair.id)?'hidden':'';}
    svg.querySelector('[data-wall-tag="elevator"]')?.classList.toggle('life-door-active',[...life.actors.values()].some(a=>a.mode==='departing'));
    for(const wall of BirdOfficeScene.staticLayers.filter(x=>x.kind==='wall')){const el=svg.querySelector(`[data-layer-id="${wall.id}"]`);const faded=BirdOfficeScene.isOccluded(wall,actorPositions);el?.classList.toggle('is-faded',faded);if(el)el.dataset.occluded=String(faded);}
    const layers=[...staticNodes,...nodes.map(n=>n.layer)].filter(n=>n.dataset.ground!=='true');layers.sort((a,b)=>Number(a.dataset.depth)-Number(b.dataset.depth));

diff --git a/public/index.html b/public/index.html
@@ -1,2 +1,2 @@
 <!doctype html>
-<html lang="en"><head><meta charset="UTF-8"><meta name="viewport" content="width=device-width,initial-scale=1"><meta name="theme-color" content="#f7f5f0"><meta name="description" content="Practical, unofficial workshop notes for BIRD Incubator participants. Read, practise and take the next step."><title>BIRD Study Notes</title><link rel="stylesheet" href="assets/style.css"><script src="assets/content.js" defer></script><script src="assets/directory.js" defer></script><script src="assets/projects-data.js" defer></script><script src="assets/projects-model.js" defer></script><script src="assets/projects.js" defer></script><link rel="stylesheet" href="assets/office.css"><script src="assets/office-model.js" defer></script><script src="assets/office-art-data.js" defer></script><script src="assets/office-iso-assets.js" defer></script><script src="assets/office-scene.js" defer></script><script src="assets/office-life.js" defer></script><script src="assets/office-activity-data.js" defer></script><script src="assets/office-seated-data.js" defer></script><script src="assets/office-pixelfx.js" defer></script><script src="assets/office.js" defer></script><script src="assets/app.js" defer></script><meta name="bird-release" content="bird-aff38026085d9157"></head><body><div id="app"></div><noscript>This study guide needs JavaScript to display its English, Croatian and Russian editions.</noscript></body></html>
+<html lang="en"><head><meta charset="UTF-8"><meta name="viewport" content="width=device-width,initial-scale=1"><meta name="theme-color" content="#f7f5f0"><meta name="description" content="Practical, unofficial workshop notes for BIRD Incubator participants. Read, practise and take the next step."><title>BIRD Study Notes</title><link rel="stylesheet" href="assets/style.css"><script src="assets/content.js" defer></script><script src="assets/directory.js" defer></script><script src="assets/projects-data.js" defer></script><script src="assets/projects-model.js" defer></script><script src="assets/projects.js" defer></script><link rel="stylesheet" href="assets/office.css"><script src="assets/office-model.js" defer></script><script src="assets/office-art-data.js" defer></script><script src="assets/office-iso-assets.js" defer></script><script src="assets/office-scene.js" defer></script><script src="assets/office-life.js" defer></script><script src="assets/office-activity-data.js" defer></script><script src="assets/office-seated-data.js" defer></script><script src="assets/office-pixelfx.js" defer></script><script src="assets/office.js" defer></script><script src="assets/app.js" defer></script><meta name="bird-release" content="bird-b5aa5072e6854528"></head><body><div id="app"></div><noscript>This study guide needs JavaScript to display its English, Croatian and Russian editions.</noscript></body></html>

diff --git a/public/assets/office-scene.js b/public/assets/office-scene.js
@@ -129,7 +129,7 @@ for(const x of [147,267]){
 }
 for(let row=0;row<4;row++)for(let col=0;col<5;col++){
  const x=335+col*102,y=1380+row*110;
- add(x+40,y+55,sprite((row+col)%2?'lectureBlue':'lectureYellow',x+40,y+74,visualMetrics.lectureWidth,visualMetrics.lectureHeight,true),'lecture',{row:row+1,column:col+1,width:visualMetrics.lectureWidth,height:visualMetrics.lectureHeight});counters.lecture++;
+ add(x+40,y+55,sprite((row+col)%2?'lectureBlue':'lectureYellow',x+40,y+74,visualMetrics.lectureWidth,visualMetrics.lectureHeight,true),'lecture',{anchor:[x+40,y+74],row:row+1,column:col+1,width:visualMetrics.lectureWidth,height:visualMetrics.lectureHeight});counters.lecture++;
 }
 // Correct service positions: same face of wall, low by the glass doorway.
 add(850,835,sprite('cooler',850,835,41,105),'service');counters.cooler++;
